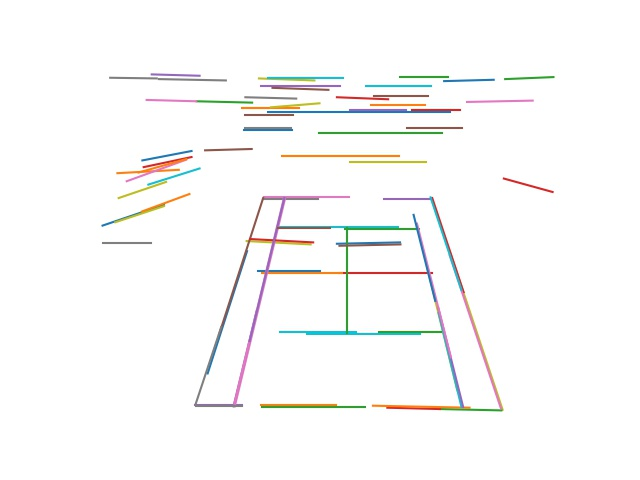
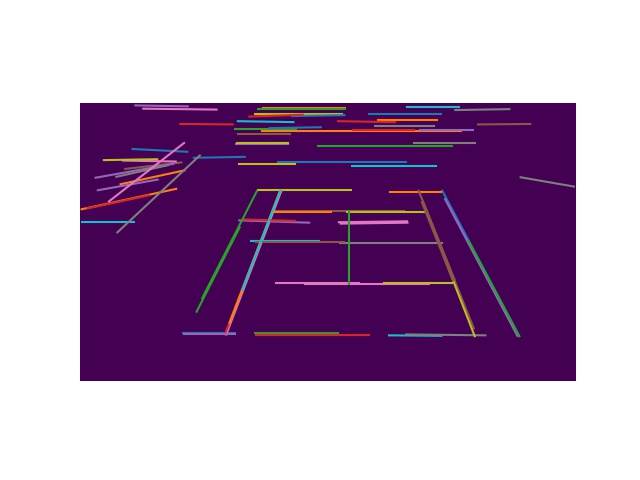
DataMing_Coursework2 final version

diff --git a/Text_Mining.py b/Text_Mining.py
@@ -47,8 +47,8 @@ url_reg = r'[a-z]*[:.]+\S+'
 at_reg = r'[@]+\S+'
 # result   = re.sub(url_reg, '', message)
 for i in range(len(message)):
-    message[i] = re.sub(url_reg, '', message[i].strip() )  # - url
-    message[i] = re.sub(at_reg, '', message[i] )    # - @xxx
+    message[i] = re.sub(url_reg, ' ', message[i].strip() )  # - url
+    message[i] = re.sub(at_reg, ' ', message[i] )    # - @xxx
     message[i] = re.sub(alphal, " ", message[i])    # keep words
     message[i] = ' '.join(message[i].split())
 message  # after blank combined
@@ -59,7 +59,7 @@ message  # after blank combined
 print('\n')
 print("Question2:")
 
-# # Tokenize(self-made)
+# # Tokenize(self-made function, but i choose the more formal function below)
 # tokenized_message = []
 # for i in range(len( message )):
 #     tokenized_message.append( message[i].split() )
@@ -131,25 +131,60 @@ for i in range(0, 10):
 
 # Plot line chart [x - words][y - words frequencies]
 import matplotlib.pyplot as plt
+from sklearn.feature_extraction.text import CountVectorizer
+# messageLOW=message.lower()
+message_rebuild = [[] for i in range(len(message))]
+message_list = [[] for i in range(len(message))]
 
-# x = words_count2.keys()
-# y = {k: v / total for total in (sum(words_count2.values()),) for k, v in words_count2.items()}
-sorted_tweet = sorted(words_count2.items(), key=lambda x : x[1])
-x = [i[0] for i in sorted_tweet if i[1] > 100]
-y = [i[1]/sum(words_count2.values()) for i in sorted_tweet if i[1] > 100]
+# Here, we delete the words with less than 2 words and stopwords again
+# because tokenize was used in the front, which cannot be used in CountVectorizer
+for i in range(len(message)):
+    for item in message[i].split():
+        if item not in stop_words and len( item ) > 2:
+            message_rebuild[i].append(item)
+            tmp = (' '.join(str(z) for z in message_rebuild[i]))
+            message_list[i] = tmp
+    # this step is to avoid list in CountVectorizer, else it will report error
+    if len(message_list[i]) == 0:
+        message_list[i] = str(' ')
 
-plt.plot(x, y)
+count_vec = CountVectorizer()  # Creating a vectorizer object
+array = np.array(message_list)
+# vector = count_vec.fit_transform([message_list[i] for i in range(len(message_list))])
+message_vector = count_vec.fit_transform(array)
+
+# Sum the item in message
+message_vector_sum = sum(message_vector.toarray() > 0).tolist()
+message_sum = sorted( zip( message_vector_sum, count_vec.get_feature_names() ), key=lambda x: x[0] )
+
+# here we change the position of x_sorted and y_sorted in message_sum
+x_sorted = [x[1] for x in message_sum]
+y_sorted = [x[0] / len( message ) for x in message_sum]
+
+plt.figure()
+plt.plot(x_sorted, y_sorted)
 plt.xticks([])
-# plt.xticks(rotation=60)
-plt.savefig('figure/Line Chart(100).png')
-plt.show()
+plt.title('The frequencies of words in Tweets')
+plt.xlabel('Words')
+plt.ylabel('Frequencies')
+plt.savefig('figure/words_frequencies.png')
+
+# # ↓↓↓ this code is the first version of plot, but it didn't use CountVectorizer and with very slow speed
+# sorted_tweet = sorted(words_count2.items(), key=lambda x : x[1])
+# x = [i[0] for i in sorted_tweet if i[1] > 100]
+# y = [i[1]/sum(words_count2.values()) for i in sorted_tweet if i[1] > 100]
+# plt.plot(x, y)
+#
+# plt.xticks([])
+# # plt.xticks(rotation=60)
+# plt.savefig('figure/Line Chart(100).png')
+# plt.show()
 
 #####################################
 # Question 4
 #####################################
 print('\n')
 print("Question4:")
-from sklearn.feature_extraction.text import CountVectorizer
 
 X = np.array(message)
 Y = np.array(sentiment)

diff --git a/Image_Processing.py b/Image_Processing.py
@@ -13,7 +13,7 @@ rolland = io.imread('data/image_data/rolland_garros_tv5monde.jpg')
 # Question 1
 #####################################
 # print image shape
-print(avengers.size)
+print(avengers.shape)
 
 # grayscale and binaryscale
 from skimage import color, filters
@@ -70,10 +70,11 @@ plt.savefig('outputs/rolland_edges.jpg')
 
 # Apply Hough-Transform
 import numpy as np
-edges = transform.rotate(rolland_edges, 180)
-edges = np.fliplr(edges)
-rolland_hough = transform.probabilistic_hough_line(edges, threshold=160, line_length=110, line_gap=7)
-plt.figure()
+# edges = transform.rotate(rolland_edges, 180)
+# edges = np.fliplr(edges)
+rolland_hough = transform.probabilistic_hough_line(rolland_edges, threshold=160, line_length=110, line_gap=7)
+plt.clf()
+plt.imshow(rolland_edges * 0)
 plt.axis('off')
 for line in rolland_hough:
     p0, p1 = line
